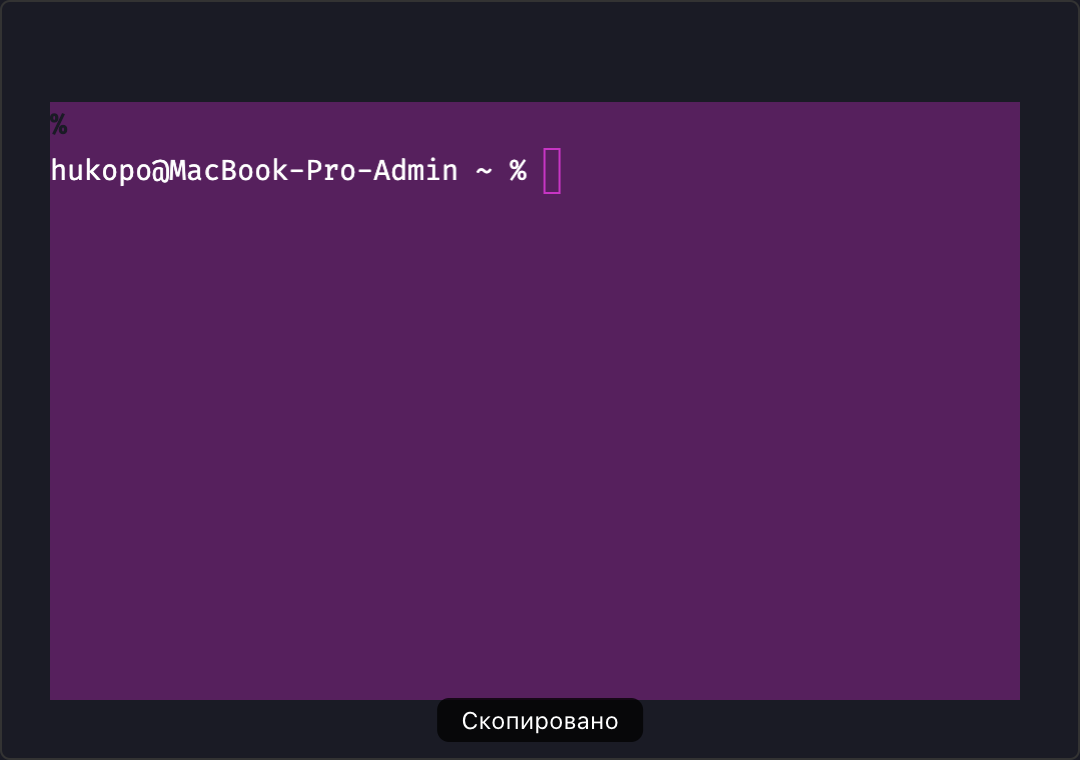
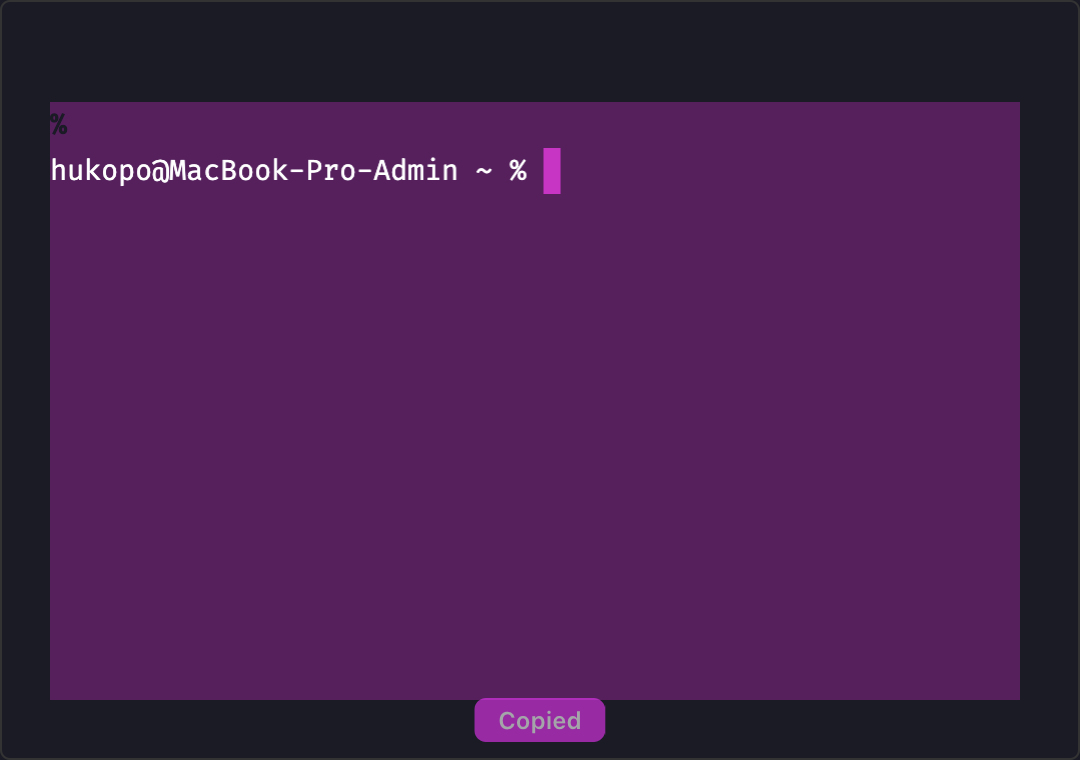
Toast: English «Copied», fuchsia background, quick blink; README in English + Russian

Changed region(s): [[0.3972, 0.9079, 0.6111, 0.9987], [0.4889, 0.1816, 0.5194, 0.2724]]

diff --git a/dist/index.js b/dist/index.js
@@ -5,7 +5,8 @@ const { clipboard } = require('electron');
 const decorateTerm = (Term, { React }) => class CopyToastTerm extends React.Component {
     constructor() {
         super(...arguments);
-        this.state = { shown: false };
+        // счётчик вместо bool: новый key перезапускает анимацию при каждом копировании
+        this.state = { shown: 0 };
         this.onDecorated = (term) => {
             var _a, _b;
             (_b = (_a = this.props).onDecorated) === null || _b === void 0 ? void 0 : _b.call(_a, term);
@@ -17,9 +18,9 @@ const decorateTerm = (Term, { React }) => class CopyToastTerm extends React.Comp
                 if (!text)
                     return;
                 clipboard.writeText(text);
-                this.setState({ shown: true });
+                this.setState(({ shown }) => ({ shown: shown + 1 }));
                 clearTimeout(this.timer);
-                this.timer = setTimeout(() => this.setState({ shown: false }), 1200);
+                this.timer = setTimeout(() => this.setState({ shown: 0 }), 600);
             });
         };
     }
@@ -29,13 +30,17 @@ const decorateTerm = (Term, { React }) => class CopyToastTerm extends React.Comp
         (_a = this.sub) === null || _a === void 0 ? void 0 : _a.dispose();
     }
     render() {
-        return React.createElement('div', { style: { width: '100%', height: '100%', position: 'relative' } }, React.createElement(Term, { ...this.props, onDecorated: this.onDecorated }), this.state.shown &&
-            React.createElement('div', { className: 'copy-toast', style: toastStyle }, 'Скопировано'));
+        return React.createElement('div', { style: { width: '100%', height: '100%', position: 'relative' } }, React.createElement(Term, { ...this.props, onDecorated: this.onDecorated }), this.state.shown > 0 && React.createElement('style', null, blinkCss), this.state.shown > 0 &&
+            React.createElement('div', { key: this.state.shown, className: 'copy-toast', style: toastStyle }, 'Copied'));
     }
 };
 exports.decorateTerm = decorateTerm;
 const toastStyle = {
     position: 'absolute', bottom: 8, left: '50%', transform: 'translateX(-50%)',
     padding: '4px 12px', borderRadius: 6, fontSize: 12, zIndex: 100,
-    background: 'rgba(0,0,0,0.75)', color: '#fff', pointerEvents: 'none',
+    background: '#ff00ff', color: '#fff', fontWeight: 600, pointerEvents: 'none',
+    animation: 'copy-toast-blink 600ms ease-out forwards',
 };
+const blinkCss = `@keyframes copy-toast-blink {
+  0% { opacity: 0; } 15% { opacity: 1; } 30% { opacity: 0.4; } 45% { opacity: 1; } 75% { opacity: 1; } 100% { opacity: 0; }
+}`;

diff --git a/src/index.ts b/src/index.ts
@@ -12,8 +12,9 @@ interface HyperTerm { term?: XTerm }
 interface Props { onDecorated?: (term: HyperTerm | null) => void; [key: string]: unknown }
 
 export const decorateTerm = (Term: ReactNS.ComponentType<Props>, { React }: { React: typeof ReactNS }) =>
-  class CopyToastTerm extends React.Component<Props, { shown: boolean }> {
-    state = { shown: false };
+  class CopyToastTerm extends React.Component<Props, { shown: number }> {
+    // счётчик вместо bool: новый key перезапускает анимацию при каждом копировании
+    state = { shown: 0 };
     private timer?: ReturnType<typeof setTimeout>;
     private sub?: { dispose(): void };
 
@@ -25,9 +26,9 @@ export const decorateTerm = (Term: ReactNS.ComponentType<Props>, { React }: { Re
         const text = xterm.getSelection();
         if (!text) return;
         clipboard.writeText(text);
-        this.setState({ shown: true });
+        this.setState(({ shown }) => ({ shown: shown + 1 }));
         clearTimeout(this.timer);
-        this.timer = setTimeout(() => this.setState({ shown: false }), 1200);
+        this.timer = setTimeout(() => this.setState({ shown: 0 }), 600);
       });
     };
 
@@ -41,8 +42,9 @@ export const decorateTerm = (Term: ReactNS.ComponentType<Props>, { React }: { Re
         'div',
         { style: { width: '100%', height: '100%', position: 'relative' } },
         React.createElement(Term, { ...this.props, onDecorated: this.onDecorated }),
-        this.state.shown &&
-          React.createElement('div', { className: 'copy-toast', style: toastStyle }, 'Скопировано')
+        this.state.shown > 0 && React.createElement('style', null, blinkCss),
+        this.state.shown > 0 &&
+          React.createElement('div', { key: this.state.shown, className: 'copy-toast', style: toastStyle }, 'Copied')
       );
     }
   };
@@ -50,5 +52,10 @@ export const decorateTerm = (Term: ReactNS.ComponentType<Props>, { React }: { Re
 const toastStyle: ReactNS.CSSProperties = {
   position: 'absolute', bottom: 8, left: '50%', transform: 'translateX(-50%)',
   padding: '4px 12px', borderRadius: 6, fontSize: 12, zIndex: 100,
-  background: 'rgba(0,0,0,0.75)', color: '#fff', pointerEvents: 'none',
+  background: '#ff00ff', color: '#fff', fontWeight: 600, pointerEvents: 'none',
+  animation: 'copy-toast-blink 600ms ease-out forwards',
 };
+
+const blinkCss = `@keyframes copy-toast-blink {
+  0% { opacity: 0; } 15% { opacity: 1; } 30% { opacity: 0.4; } 45% { opacity: 1; } 75% { opacity: 1; } 100% { opacity: 0; }
+}`;

diff --git a/README.md b/README.md
@@ -1,36 +1,44 @@
 # hyper-copy-toast
 
-Плагин для [Hyper](https://hyper.is): **копирует текст сразу при выделении** и показывает внизу терминала плашку **«Скопировано»** — как в Claude Code.
+A [Hyper](https://hyper.is) plugin that **copies text as soon as you select it** and flashes a fuchsia **“Copied”** toast at the bottom of the terminal — just like Claude Code.
 
 ![demo](docs/demo.png)
 
-## Установка
+## Install
 
 ```sh
 git clone https://github.com/hukopo/hyper-copy-toast ~/.hyper_plugins/local/hyper-copy-toast
 cd ~/.hyper_plugins/local/hyper-copy-toast && npm i && npm run build
 ```
 
-В `~/.hyper.js`:
+Add it to `~/.hyper.js`:
 
 ```js
 localPlugins: ['hyper-copy-toast'],
 ```
 
-Затем **полностью перезапустите Hyper (Cmd+Q)** — новое окно или View → Reload новые плагины не подхватывают.
+Then **fully restart Hyper (Cmd+Q)** — a new window or View → Reload won't pick up new plugins.
 
-> Встроенную опцию `copyOnSelect` включать не нужно.
+> No need to enable the built-in `copyOnSelect` option.
 
-## Разработка
+## Development
 
 ```sh
 npm run build   # src/index.ts → dist/index.js
 ```
 
-Исходник — `src/index.ts`: оборачивает компонент `Term`, подписывается на `onSelectionChange` у xterm, пишет выделение в буфер через `electron.clipboard` и на 1,2 с показывает плашку.
+`src/index.ts` wraps Hyper's `Term` component, subscribes to xterm's `onSelectionChange`, writes the selection to the clipboard via `electron.clipboard` and blinks the toast for 600 ms.
 
-Проверено на Hyper 3.4.1, macOS.
+Tested on Hyper 3.4.1, macOS.
 
-## Лицензия
+## License
 
 MIT
+
+---
+
+## 🇷🇺 Кратко
+
+Плагин для Hyper: **копирует текст сразу при выделении** и на мгновение мигает фуксиевой плашкой **«Copied»**.
+
+Установка: склонировать в `~/.hyper_plugins/local/hyper-copy-toast`, выполнить `npm i && npm run build`, добавить `'hyper-copy-toast'` в `localPlugins` в `~/.hyper.js` и **полностью перезапустить Hyper (Cmd+Q)**.
